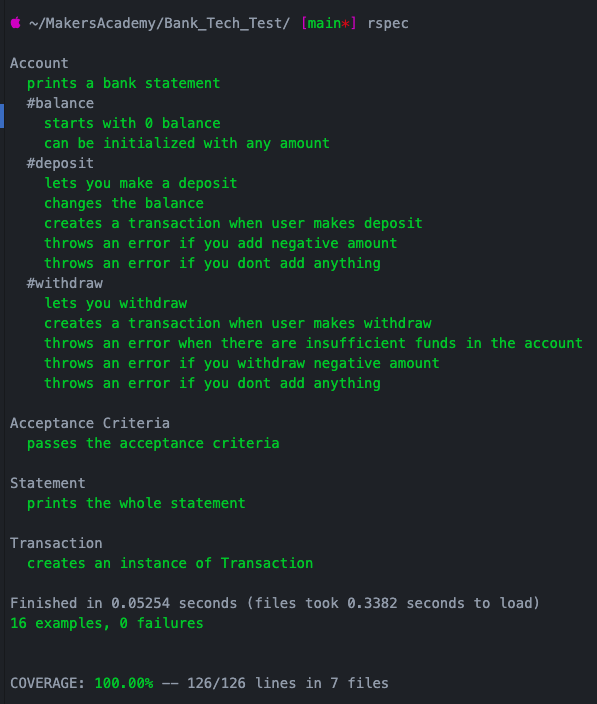
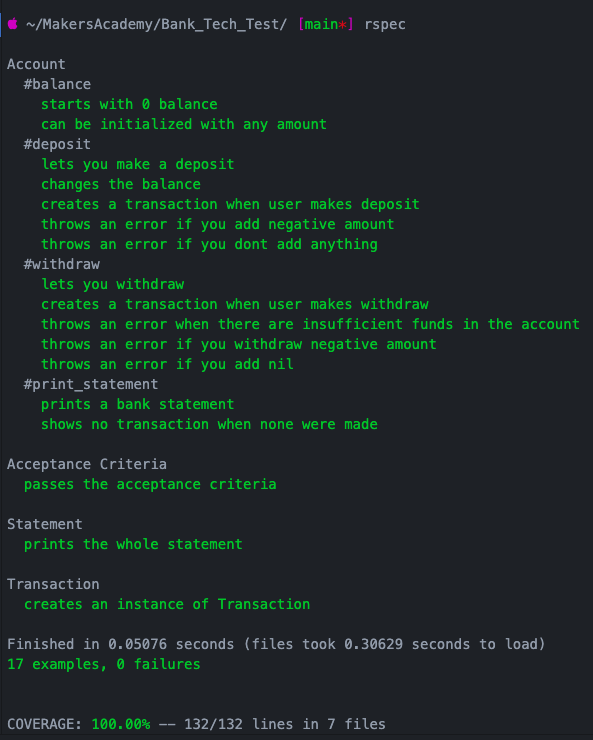
Added dependency injection for date in statement_spec

diff --git a/spec/statement_spec.rb b/spec/statement_spec.rb
@@ -1,15 +1,19 @@
 # frozen_string_literal: true
-
+require 'time'
 require 'statement'
 
 describe Statement do
   subject(:statement) { described_class.new }
-  let(:deposit) { double(date: '17/03/2000', type: :credit, value: 10, balance: 10.00) }
-  let(:withdraw) { double(date: '08/03/2021', type: :debit, value: 5, balance: 5.00) }
+  let(:date_credit) { Date.new(2000, 3, 17).strftime('%d/%m/%Y') }
+  let(:date_debit) { Date.new(2021, 3, 8).strftime('%d/%m/%Y') }
+  let(:deposit) { double(date: date_credit, type: :credit, value: 10, balance: 10.00) }
+  let(:withdraw) { double(date: date_debit, type: :debit, value: 5, balance: 5.00) }
   let(:transactions) { double(list: [deposit, withdraw]) }
 
   it 'prints the whole statement' do
     expect do
+      allow(Date).to receive(:today) { date_credit }
+      allow(Date).to receive(:today) { date_debit }
       statement.print(transactions.list)
     end.to output("date || credit || debit || balance\n08/03/2021 || || 5.00 || 5.00\n17/03/2000 || 10.00 || || 10.00\n").to_stdout
   end

diff --git a/README.md b/README.md
@@ -1,6 +1,6 @@
 # Bank tech test
 
-This test is for practicing OO desing and TDD skills as well as producing a clean code.
+This test is for practicing OO design and TDD skills as well as producing a clean code.
 
 ## How to run
 
@@ -66,6 +66,6 @@ I want to see my balance after every transaction on my account statement
 
 ## Coverage
 
-* 16 tests , all passing, 100% coverage.
+* 17 tests , all passing, 100% coverage.
 
 ![coverage](screenshots/coverage.png)
